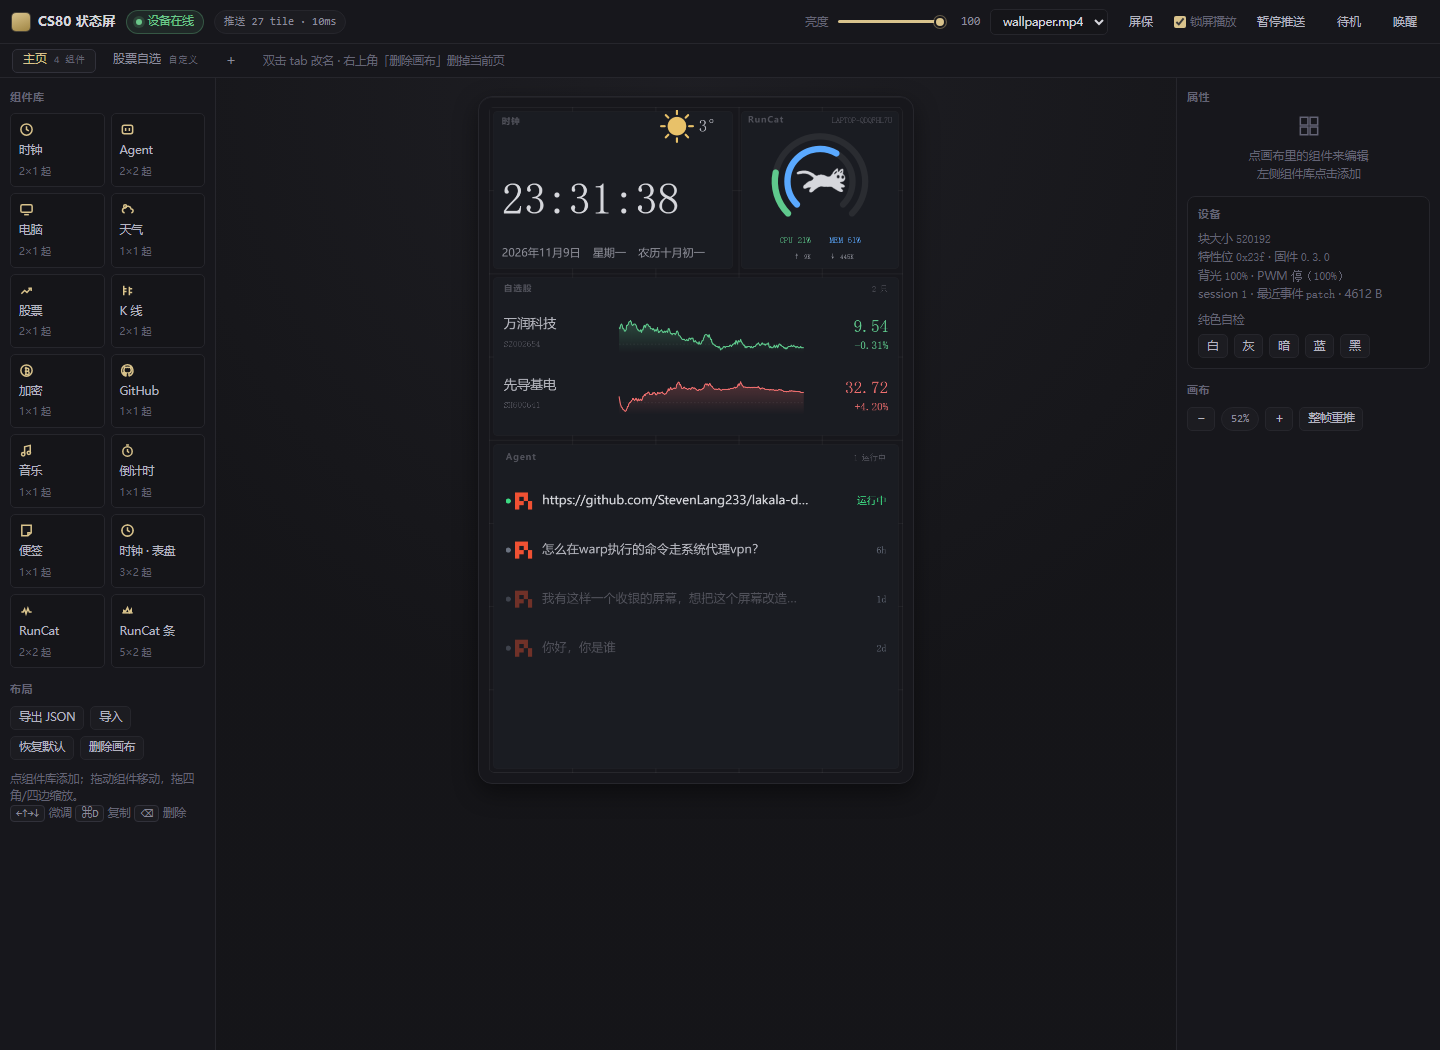
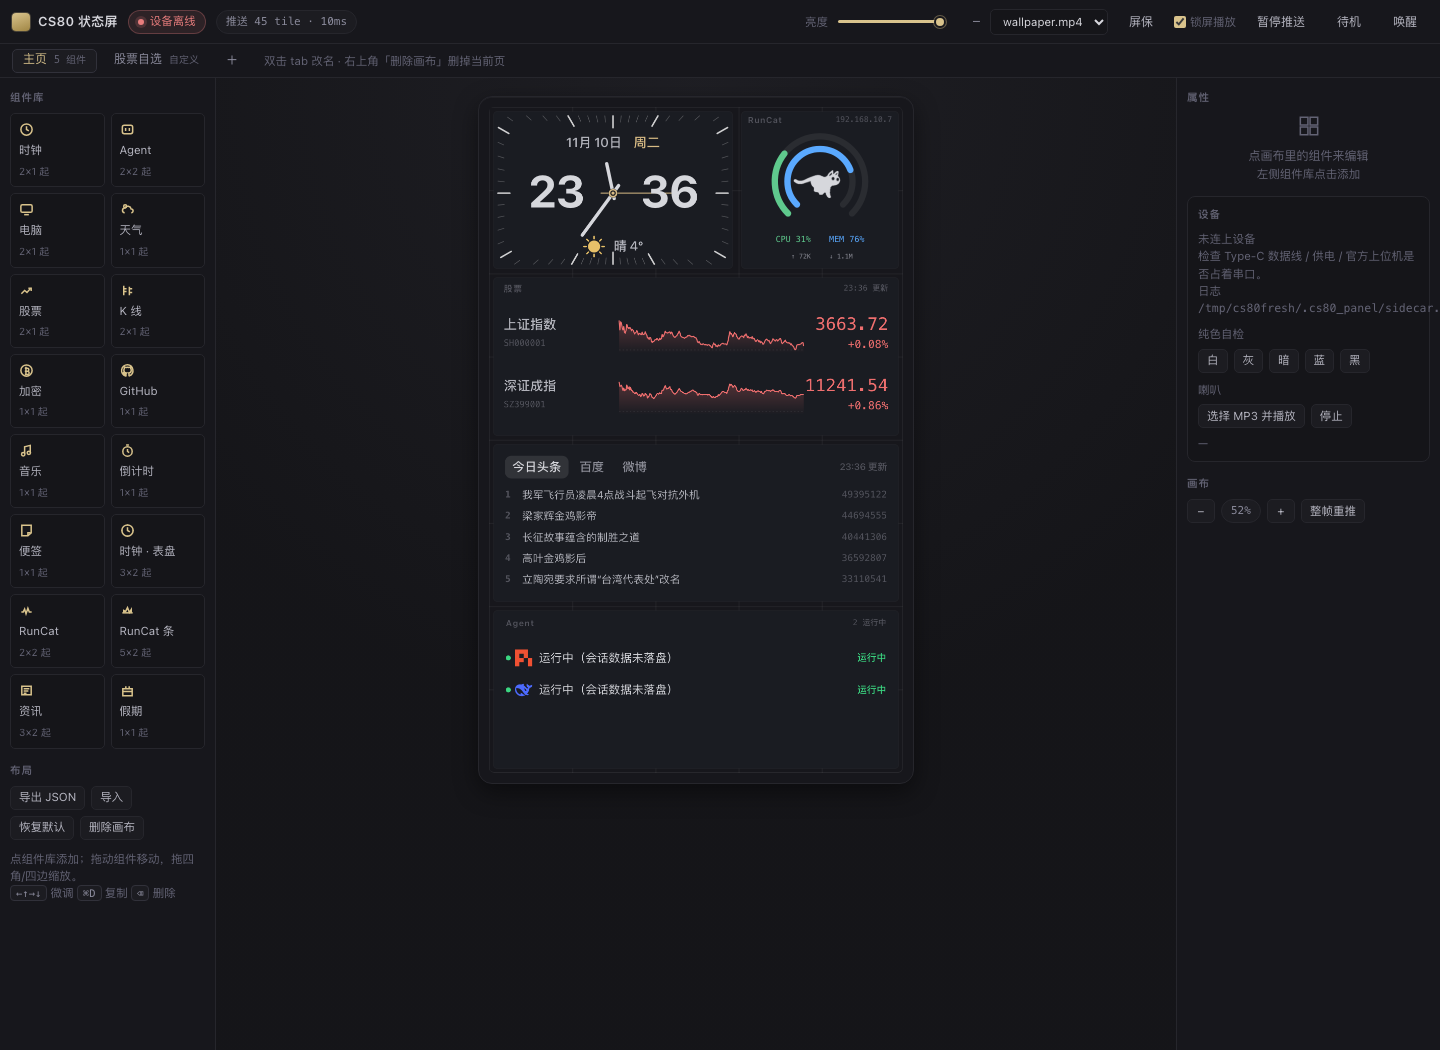
feat(panel): 新装默认看板换成「表盘时钟 + RunCat + 自选股 + 热榜 + Agent」
新用户第一次打开（没有 ~/.cs80_panel/layout.json）看到的就是这块 5×8 主页：
- 3×2 表盘时钟（带天气）+ 2×2 RunCat（带局域网 IP）
- 5×2 自选股（上证指数 / 深证成指，交易时段才轮询）
- 5×2 热榜资讯（今日头条 / 百度 / 微博，60 秒轮播）
- 5×2 Agent 会话列表

同时更新 panel/README 的默认看板示意，并用新布局重新截了 docs/default-layout.png。
「恢复默认」按钮同样按这份配置重建。

diff --git a/panel/host.py b/panel/host.py
@@ -50,16 +50,19 @@ GRID_PAGE = {
     "name": "主页",
     "type": "grid",
     "widgets": [
-        # 左上：3×2 时钟（右上角待带天气，城市 北京）
+        # 左上：3×2 表盘时钟（右上角带天气，城市 北京）
         {"id": "clock", "type": "clock_dial", "cell": [0, 0, 3, 2],
          "config": {"city": "北京", "showWeather": True}},
-        # 右上：2×2 RunCat
+        # 右上：2×2 RunCat（CPU/MEM 环 + 奔跑猫，右上角显示本机局域网 IP）
         {"id": "runcat", "type": "runcat", "cell": [3, 0, 2, 2], "config": {}},
-        # 中间两行：5×2 自选股（新版多股组件，一行一只）
+        # 中间：5×2 自选股（一格一只，只在 A 股交易时段轮询）
         {"id": "stock", "type": "stock", "cell": [0, 2, 5, 2],
-         "config": {"symbols": "sz002654,sh600641", "title": "自选股"}},
-        # 剩下的 5×4 给 Agent
-        {"id": "agent", "type": "agent", "cell": [0, 4, 5, 4], "config": {}},
+         "config": {"symbols": "sh000001,sz399001"}},
+        # 5×2 热榜：勾选的数据源作为 Tab，按 60 秒轮播
+        {"id": "news", "type": "news", "cell": [0, 4, 5, 2],
+         "config": {"sources": ["toutiao", "baidu", "weibo"], "rotate": 60}},
+        # 底部：5×2 Agent 会话列表（自动扫描本机 Pi / Claude Code / Codex / DeepSeek）
+        {"id": "agent", "type": "agent", "cell": [0, 6, 5, 2], "config": {}},
     ],
 }
 
